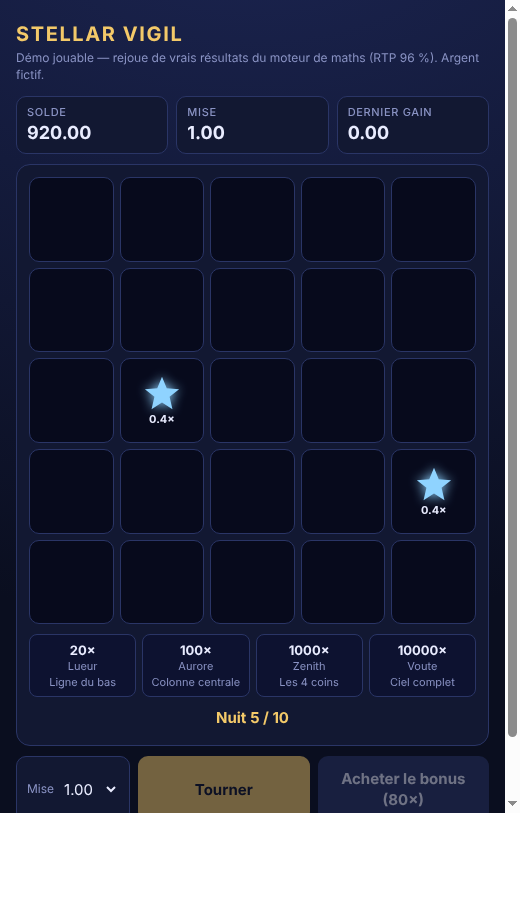
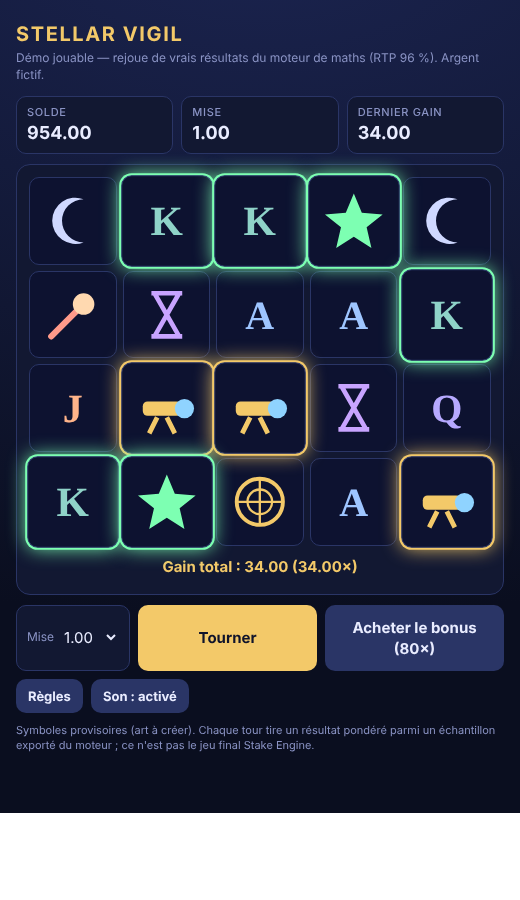
Iteration 2: RTP breakdown tool, accounting test, demo sound and rules, SWOT v4
Claude-Session: https://claude.ai/code/session_01QhCfkmPEuKu1oz7J2mMLDx

diff --git a/demo/index.html b/demo/index.html
@@ -46,6 +46,15 @@
   .pointer{position:absolute;left:50%;top:-10px;transform:translateX(-50%);width:0;height:0;border-left:11px solid transparent;border-right:11px solid transparent;border-top:20px solid var(--gold);filter:drop-shadow(0 0 6px var(--gold));z-index:2}
   .wheeltitle{font-weight:800;color:var(--gold);letter-spacing:.06em;text-transform:uppercase;margin-bottom:14px}
   .wheelmsg{min-height:44px;margin-top:14px;font-weight:700}
+  .rules{position:fixed;inset:0;background:rgba(5,8,25,.92);z-index:20;overflow:auto;padding:16px}
+  .rules .card{max-width:620px;margin:0 auto;background:var(--panel);border:1px solid var(--line);border-radius:14px;padding:16px}
+  .rules h2{margin:0 0 8px;color:var(--gold);font-size:17px;text-transform:uppercase;letter-spacing:.06em}
+  .rules h3{margin:14px 0 4px;font-size:14px}
+  .rules ul{margin:4px 0;padding-left:18px;color:var(--ink)}
+  .rules li{margin:3px 0}
+  .rules .warn{color:var(--dim);font-size:12px;margin-top:12px}
+  .tools{display:flex;gap:8px;margin-top:8px}
+  .tools button{flex:0 0 auto;padding:8px 12px;font-size:13px}
   .hidden{display:none}
 </style>
 </head>
@@ -78,8 +87,30 @@
     <button id="spin">Tourner</button>
     <button id="buy" class="alt">Acheter le bonus (80×)</button>
   </div>
+  <div class="tools"><button class="alt" id="rulesbtn">Règles</button><button class="alt" id="mutebtn">Son : activé</button></div>
   <div class="note">Symboles provisoires (art à créer). Chaque tour tire un résultat pondéré parmi un échantillon exporté du moteur ; ce n'est pas le jeu final Stake Engine.</div>
 </div>
+<div class="rules hidden" id="rules"><div class="card">
+  <h2>Règles — Stellar Vigil</h2>
+  <h3>Jeu de base</h3>
+  <ul><li>Grille 5 × 4, 1 024 façons de gagner, gains de gauche à droite.</li>
+  <li>L'Étoile filante (wild) apparaît sur les colonnes 2 à 4 et remplace tous les symboles sauf la Lunette.</li>
+  <li>Une Étoile à valeur peut tomber sur n'importe quelle colonne et paie sur place de 0,2× à 10× la mise.</li></ul>
+  <h3>Nuit des Constellations</h3>
+  <ul><li>3, 4 ou 5 Lunettes déclenchent 10, 12 ou 15 nuits. Le nombre de nuits est fixe.</li>
+  <li>Chaque nuit, de 0 à 3 étoiles tombent sur un ciel de 5 × 5 ; elles y restent jusqu'à la fin du bonus.</li>
+  <li>Des étoiles voisines forment une constellation : chaque étoile gagne un niveau de valeur par lien, jusqu'à +3. Une étoile qui relie deux constellations ajoute un niveau de plus (conjonction).</li>
+  <li>Compléter une zone paie un multiplicateur fixe, une seule fois par bonus : Horizon (ligne du bas) 20×, Méridien (colonne centrale) 100×, Quadrature (les 4 coins) 1 000×, Firmament (ciel complet) 10 000×. Ces multiplicateurs ne sont pas progressifs.</li></ul>
+  <h3>Roue de sauvegarde</h3>
+  <ul><li>En fin de bonus, si le total est inférieur à ce que vous avez payé pour y entrer (votre mise, ou le prix d'achat de 80×), la roue tourne.</li>
+  <li>3 segments sur 8 relèvent le total exactement jusqu'à ce montant. Les 5 autres n'ajoutent rien : la roue n'est pas un remboursement garanti.</li>
+  <li>Sur un bonus déclenché en jeu normal, la roue tourne très rarement, car le total dépasse presque toujours la mise.</li></ul>
+  <h3>Chiffres</h3>
+  <ul><li>RTP théorique : 96,0 % dans tous les modes. Gain maximum : 10 000× la mise, extrêmement rare (environ 1 fois sur 10 millions en jeu normal).</li>
+  <li>Le bonus se déclenche environ 1 spin sur 150 ; environ 28 % des spins gagnent.</li></ul>
+  <p class="warn">Démo à argent fictif : symboles et sons provisoires. Les résultats rejoués proviennent du moteur de maths mais ne constituent pas le jeu final soumis à Stake Engine.</p>
+  <div class="ctl"><button id="rulesclose">Fermer</button></div>
+</div></div>
 <script src="books.js"></script>
 <script>
 const $=id=>document.getElementById(id), sleep=ms=>new Promise(r=>setTimeout(r,ms));
@@ -96,6 +127,29 @@ const SYM={
 const starSvg=`<svg viewBox="0 0 40 40"><path d="M20 3l5 12 13 1-10 8 3 13-11-7-11 7 3-13-10-8 13-1z" fill="#8fd3ff"/></svg>`;
 const fmt=c=>(c/100).toFixed(2);
 let bal=1000, busy=false;
+// --- Sons synthétisés (aucun fichier audio) ---
+let actx=null, muted=false;
+try{muted=localStorage.getItem('sv_muted')==='1'}catch(e){}
+function audio(){ if(muted) return null; try{ actx=actx||new (window.AudioContext||window.webkitAudioContext)(); if(actx.state==='suspended') actx.resume(); return actx }catch(e){ return null } }
+function tone(freq,dur=.15,type='sine',vol=.08,when=0,slideTo=null){
+  const c=audio(); if(!c) return; const t=c.currentTime+when, o=c.createOscillator(), g=c.createGain();
+  o.type=type; o.frequency.setValueAtTime(freq,t); if(slideTo) o.frequency.exponentialRampToValueAtTime(slideTo,t+dur);
+  g.gain.setValueAtTime(0.0001,t); g.gain.exponentialRampToValueAtTime(vol,t+.01); g.gain.exponentialRampToValueAtTime(0.0001,t+dur);
+  o.connect(g).connect(c.destination); o.start(t); o.stop(t+dur+.02);
+}
+const SFX={
+  reveal:()=>{tone(220,.06,'triangle',.05);tone(330,.06,'triangle',.04,.07)},
+  win:()=>{[523,659,784].forEach((f,i)=>tone(f,.18,'sine',.07,i*.09))},
+  star:(v)=>tone(500+Math.min(900,v*4),.18,'sine',.06),
+  link:()=>tone(300,.35,'sawtooth',.03,0,900),
+  zone:()=>{[392,523,659,784,1046].forEach((f,i)=>tone(f,.3,'triangle',.07,i*.1))},
+  trigger:()=>{[262,330,392,523].forEach((f,i)=>tone(f,.25,'triangle',.07,i*.12))},
+  night:()=>tone(180,.2,'sine',.05,0,120),
+  tick:()=>tone(900,.03,'square',.03),
+  saved:()=>{[523,659,784,1046].forEach((f,i)=>tone(f,.25,'sine',.08,i*.1))},
+  empty:()=>tone(220,.4,'sine',.06,0,150)
+};
+function sfx(name,arg){ try{ SFX[name](arg) }catch(e){} }
 const ZONES=[['Horizon','Ligne du bas',20],['Meridien','Colonne centrale',100],['Quadrature','Les 4 coins',1000],['Firmament','Ciel complet',10000]];
 
 function buildBoard(){const b=$('base');b.innerHTML='';for(let r=0;r<4;r++)for(let c=0;c<5;c++){const d=document.createElement('div');d.className='cell';d.id=`b${c}_${r}`;b.appendChild(d)}}
@@ -128,8 +182,10 @@ async function spinWheel(e){
       `<text x="${lx.toFixed(1)}" y="${ly.toFixed(1)}" text-anchor="middle" dominant-baseline="middle" font-size="${saved?9:8}" font-weight="800" fill="${saved?'#10142b':'#8a93c4'}" transform="rotate(${((i+.5)*360/n).toFixed(1)} ${lx.toFixed(1)} ${ly.toFixed(1)})">${saved?'SAUVÉE':'—'}</text>`}).join('');
   msg.textContent=`Total du bonus sous ${(e.floor/100).toFixed(0)}× : la roue peut sauver la mise`;
   box.classList.remove('hidden'); await sleep(900);
+  let t=0, step=60; while(t<3200){ setTimeout(()=>sfx('tick'),t); t+=step; step*=1.07 }
   svg.getBoundingClientRect(); svg.style.transition=''; svg.style.transform=`rotate(${360*5-(e.segment+.5)*360/n}deg)`;
   await sleep(3500);
+  sfx(e.saved?'saved':'empty');
   msg.textContent=e.saved?`Mise sauvée ! +${(e.topUp/100).toFixed(1)}×  → total ${(e.total/100).toFixed(1)}×`:'Pas de sauvegarde cette fois';
   msg.style.color=e.saved?'var(--gold)':'var(--dim)';
   await sleep(2200); box.classList.add('hidden');
@@ -138,15 +194,15 @@ async function playEvents(book,bet){
   let nights=0, total=0;
   for(const e of book.events){
     switch(e.type){
-    case 'reveal': view(false); show(e.board); banner(''); await sleep(450); break;
-    case 'winInfo': e.wins.forEach(w=>w.positions.forEach(p=>$(`b${p.reel}_${p.row-1}`)?.classList.add('win'))); banner('Gain '+fmt(e.totalWin*bet)+'  ×'+(e.totalWin/100)); await sleep(900); break;
-    case 'freeSpinTrigger': banner('NUIT DES CONSTELLATIONS — '+e.totalFs+' nuits'); document.querySelectorAll('.scat').forEach(x=>x.classList.add('win')); await sleep(1400); buildSky(); view(true); break;
-    case 'nightStart': nights=e.night; banner(`Nuit ${e.night} / ${e.totalNights}`); await sleep(350); break;
-    case 'starsLanded': drawStars(e.stars); await sleep(600); break;
-    case 'constellationsUpdate': drawStars(e.stars); drawLinks(e.constellations); if(e.conjunctions) banner(`Conjonction ×${e.conjunctions} !`); await sleep(650); break;
-    case 'zonesComplete': e.zones.forEach(z=>{$('z'+z.name)?.classList.add('done')}); banner('PALIER '+e.zones.map(z=>z.name+' '+(z.win/100)+'×').join(' + ')); await sleep(1300); break;
+    case 'reveal': sfx('reveal'); view(false); show(e.board); banner(''); await sleep(450); break;
+    case 'winInfo': sfx('win'); e.wins.forEach(w=>w.positions.forEach(p=>$(`b${p.reel}_${p.row-1}`)?.classList.add('win'))); banner('Gain '+fmt(e.totalWin*bet)+'  ×'+(e.totalWin/100)); await sleep(900); break;
+    case 'freeSpinTrigger': sfx('trigger'); banner('NUIT DES CONSTELLATIONS — '+e.totalFs+' nuits'); document.querySelectorAll('.scat').forEach(x=>x.classList.add('win')); await sleep(1400); buildSky(); view(true); break;
+    case 'nightStart': sfx('night'); nights=e.night; banner(`Nuit ${e.night} / ${e.totalNights}`); await sleep(350); break;
+    case 'starsLanded': e.stars.forEach((st,i)=>setTimeout(()=>sfx('star',st.value/100),i*120)); drawStars(e.stars); await sleep(600); break;
+    case 'constellationsUpdate': if(e.constellations.length) sfx('link'); drawStars(e.stars); drawLinks(e.constellations); if(e.conjunctions) banner(`Conjonction ×${e.conjunctions} !`); await sleep(650); break;
+    case 'zonesComplete': sfx('zone'); e.zones.forEach(z=>{$('z'+z.name)?.classList.add('done')}); banner('PALIER '+e.zones.map(z=>z.name+' '+(z.win/100)+'×').join(' + ')); await sleep(1300); break;
     case 'nightPayout': total=e.total; banner(`Nuit ${nights} : +${(e.amount/100).toFixed(1)}×  (total ${(e.total/100).toFixed(1)}×)`); await sleep(500); break;
-    case 'starPrizes': e.stars.forEach(p=>$(`b${p.reel}_${p.row-1}`)?.classList.add('win')); banner('Étoiles : +'+(e.total/100).toFixed(1)+'×'); await sleep(900); break;
+    case 'starPrizes': sfx('win'); e.stars.forEach(p=>$(`b${p.reel}_${p.row-1}`)?.classList.add('win')); banner('Étoiles : +'+(e.total/100).toFixed(1)+'×'); await sleep(900); break;
     case 'saverWheel': await spinWheel(e); break;
     case 'freeSpinEnd': banner('Fin du bonus : '+(e.amount/100).toFixed(1)+'×'); await sleep(1200); break;
     case 'finalWin': break;
@@ -170,6 +226,10 @@ buildBoard(); buildSky();
 // preview board on load
 (function(){const b=BOOKS.base.find(x=>x.events[0].type==='reveal'); show(b.events[0].board)})();
 $('spin').onclick=()=>play('base'); $('buy').onclick=()=>play('bonus');
+$('rulesbtn').onclick=()=>$('rules').classList.remove('hidden'); $('rulesclose').onclick=()=>$('rules').classList.add('hidden');
+function paintMute(){ $('mutebtn').textContent='Son : '+(muted?'coupé':'activé') }
+$('mutebtn').onclick=()=>{ muted=!muted; try{localStorage.setItem('sv_muted',muted?'1':'0')}catch(e){} paintMute(); if(!muted) sfx('win') };
+paintMute();
 // query helpers for automated screenshots
 const q=new URLSearchParams(location.search);
 if(q.get('auto')==='bonus'){setTimeout(()=>play('bonus'),300)}

diff --git a/math/games/stellar_vigil/tools/rtp_breakdown.py b/math/games/stellar_vigil/tools/rtp_breakdown.py
@@ -1,0 +1,54 @@
+"""Split the RTP of the published books by component (weighted by the lookup tables).
+
+Usage (from math/):  env/bin/python games/stellar_vigil/tools/rtp_breakdown.py
+Components: ways wins, base-game star prizes, bonus nights (stars), zone multipliers, wager-saver top-ups.
+"""
+
+import collections
+import csv
+import io
+import json
+import os
+
+import zstandard
+
+PUB = os.path.join(os.path.dirname(os.path.dirname(os.path.abspath(__file__))), "library", "publish_files")
+COST = {"base": 1.0, "bonus": 80.0}
+
+
+def breakdown(mode: str) -> dict:
+    with open(os.path.join(PUB, f"books_{mode}.jsonl.zst"), "rb") as f:
+        lines = io.TextIOWrapper(zstandard.ZstdDecompressor().stream_reader(f)).read().splitlines()
+    with open(os.path.join(PUB, f"lookUpTable_{mode}_0.csv")) as f:
+        weights = [int(r[1]) for r in csv.reader(f)]
+    total_w = sum(weights)
+    acc = collections.defaultdict(float)
+    for line, w in zip(lines, weights):
+        b = json.loads(line)
+        ev = b["events"]
+        zone = sum(z["win"] for e in ev if e["type"] == "zonesComplete" for z in e["zones"])
+        parts = {
+            "ways": sum(e["totalWin"] for e in ev if e["type"] == "winInfo"),
+            "stars_base": sum(e["total"] for e in ev if e["type"] == "starPrizes"),
+            "bonus_nights": sum(e["amount"] for e in ev if e["type"] == "nightPayout") - zone,
+            "zones": zone,
+            "saver_topup": sum(e["topUp"] for e in ev if e["type"] == "saverWheel"),
+            "TOTAL": b["payoutMultiplier"],
+        }
+        for k, v in parts.items():
+            acc[k] += w * v / 100
+        acc["p_bonus"] += w * any(e["type"] == "freeSpinTrigger" for e in ev)
+        acc["p_wheel"] += w * any(e["type"] == "saverWheel" for e in ev)
+        acc["p_win"] += w * (b["payoutMultiplier"] > 0)
+        acc["p_cap"] += w * (b["payoutMultiplier"] >= 1_000_000)
+    return {k: v / total_w for k, v in acc.items()}
+
+
+if __name__ == "__main__":
+    for mode in ("base", "bonus"):
+        r = breakdown(mode)
+        print(f"\n== {mode} (cost {COST[mode]}x): share of the amount staked")
+        for k in ("ways", "stars_base", "bonus_nights", "zones", "saver_topup", "TOTAL"):
+            print(f"  {k:14s} {r[k] / COST[mode] * 100:7.2f} %   ({r[k]:.3f}x)")
+        for k in ("p_bonus", "p_wheel", "p_win", "p_cap"):
+            print(f"  {k:14s} {r[k] * 100:8.4f} %" + (f"   (1 in {1 / r[k]:,.0f})" if r[k] else ""))

diff --git a/math/games/stellar_vigil/tests/test_books.py b/math/games/stellar_vigil/tests/test_books.py
@@ -114,3 +114,17 @@ def test_stats_summary_rtp_is_on_target():
         rtps[mode] = mean / COST[mode]
         assert abs(rtps[mode] - 0.96) < 0.005, (mode, rtps[mode])
     assert abs(rtps["base"] - rtps["bonus"]) < 0.005
+
+
+def test_payout_equals_sum_of_components(mode_data):
+    """ways + base stars + bonus nights (zones included) + saver top-up == payout, until the win cap."""
+    _, books, _ = mode_data
+    for b in books:
+        ev = b["events"]
+        parts = (
+            sum(e["totalWin"] for e in ev if e["type"] == "winInfo")
+            + sum(e["total"] for e in ev if e["type"] == "starPrizes")
+            + sum(e["amount"] for e in ev if e["type"] == "nightPayout")
+            + sum(e["topUp"] for e in ev if e["type"] == "saverWheel")
+        )
+        assert b["payoutMultiplier"] == min(parts, WINCAP_CENTS), b["id"]

diff --git a/docs/SWOT.md b/docs/SWOT.md
@@ -1,5 +1,41 @@
 # SWOT — Stellar Vigil
 
+## v4 — fin de l'itération 2 (2026-10-09, 21:12-21:35 UTC)
+
+**Corrigé et mesuré depuis la v3**
+- **RTP réparti par composante, mesuré** sur 100 000 simulations (outil `tools/rtp_breakdown.py`, tableau dans `DESIGN.md` §10).
+- **Comptabilité des événements garantie** : un test vérifie sur 200 000 books que ways + étoiles + nuits + top-up de la roue = paiement final (le front-end peut s'y fier). 28 tests au total.
+- **Démo** : son synthétisé (aucun fichier audio, bouton couper/activer) et écran de règles honnête (RTP, gain max très rare, roue non garantie). Aucune erreur JavaScript détectée au chargement ; le rendu sonore lui-même n'a pas pu être écouté ici.
+
+### Forces
+- Moteur complet, reproductible et mesuré par composante ; tests verts ; RTP 96,0 % dans les deux modes.
+- Mécanique originale ; bonus déterministe compatible avec les résultats pré-générés de Stake.
+- Démo jouable avec roue, sons et règles.
+
+### Faiblesses (restantes)
+- **Découverte** : la roue de sauvegarde ne tourne quasiment jamais sur un bonus déclenché en jeu de base (1 spin sur 330 000), car son plancher (la mise, 1x) est presque toujours dépassé. Elle n'est réellement visible qu'en achat de bonus (67 % des achats). À trancher par l'utilisateur (voir `OPEN_QUESTIONS.md` n°8).
+- Mode achat plus volatil que le bonus déclenché à moyenne comparable (zones 21,4 % contre 5,4 %).
+- Front-end Svelte/PixiJS non commencé ; art et sons de production absents.
+- Coût de l'achat de bonus (80x) et table des gains toujours provisoires.
+- Queue extrême non validée ; 71,6 % de spins sans gain en jeu de base.
+
+### Opportunités
+- Plateforme en croissance (chiffres rapportés par Engine, non vérifiés) ; aucun clone de Huff N' Puff trouvé dessus.
+- Thème libre de licences ; déclinaisons possibles.
+- La roue peut devenir un vrai argument de rétention si son plancher est rendu pertinent en jeu de base.
+
+### Menaces
+- Brevets : persistance des étoiles et roue « jusqu'au plancher » à faire examiner par un conseil.
+- CGU Stake : licence large pour 36 mois renouvelables ; clauses de résiliation/indemnisation non lues.
+- Maths figées après approbation (atténué : tests + validation à 100 000 + mesure par composante).
+- Règles Stake incomplètes (RTP min/max, fichiers, juridictions).
+- Noms proches : Stellar Jackpots, Moon Princess Stargazing, « Vault ».
+- Saturation du marché ; risque de ressemblance avec Huff N' Puff.
+
+---
+
+# SWOT — Stellar Vigil
+
 ## v3 — fin de l'itération 1 (2026-10-09)
 
 **Corrigé et mesuré depuis la v2**

diff --git a/docs/ITERATIONS.md b/docs/ITERATIONS.md
@@ -14,3 +14,11 @@
 - Démo : roue animée, étoiles à valeur, nouveaux noms ; books ré-exportés depuis la bibliothèque à 100 000.
 - Incident : le worker a redémarré pendant l'itération ; la routine s'est déclenchée deux fois (15:12 et 18:12 UTC), une seule itération a été jouée. Une commande précédente, interrompue, avait déjà appliqué une partie des modifications : doublons nettoyés avant de relancer.
 - Pour l'itération suivante : mesurer la répartition du RTP par composante (ways, étoiles, bonus, roue, zones), puis régler le coût du bonus buy et la table des gains ; audio procédural dans la démo ; texte de règles.
+
+## Itération 2 (2026-10-09, 21:12-21:35 UTC)
+- Mesure : répartition du RTP par composante sur 100 000 simulations (outil versionné `tools/rtp_breakdown.py`).
+  Base : ways 43,3 %, étoiles 3,8 %, nuits 43,5 %, zones 5,4 % ; achat : nuits 71,7 %, zones 21,4 %, roue 1,0 %.
+- Test de comptabilité (ways + étoiles + nuits + top-up = paiement) sur 200 000 books : passe. 28 tests au total.
+- Démo : sons synthétisés avec bouton, écran de règles ; 0 erreur JavaScript détectée (le son n'a pas pu être écouté).
+- Découverte : la roue ne tourne presque jamais sur un bonus déclenché en jeu de base. Aucun changement de maths fait : décision produit demandée (question n°8).
+- Pour l'itération suivante : si la décision n'est pas donnée, préparer les deux variantes de plancher en configuration et mesurer leur coût en RTP sans les activer ; calage du coût de l'achat de bonus.

diff --git a/math/games/stellar_vigil/DESIGN.md b/math/games/stellar_vigil/DESIGN.md
@@ -92,3 +92,16 @@ Tests automatisés : `math/games/stellar_vigil/tests` (26 tests : logique du cie
 - Résultat pré-généré dans le book (événement `saverWheel` : segments, segment, saved, floor, topUp, total) ; aucun choix du joueur.
 - Effet réel : quasi absente en jeu de base (un bonus déclenché rapporte rarement moins de 1x), fréquente en achat de bonus (le plus souvent sous 80x).
 - À formuler clairement dans les règles du jeu : elle ne garantit pas un remboursement, elle l'offre sur 3 segments sur 8.
+
+## 10. Répartition du RTP par composante (100 000 simulations, `tools/rtp_breakdown.py`)
+| Composante | Mode base (part de la mise) | Mode achat (part du prix d'achat) |
+|---|---|---|
+| Gains ways | 43,3 % | 1,8 % |
+| Étoiles à valeur (jeu de base) | 3,8 % | 0,1 % |
+| Nuits du bonus (étoiles et constellations) | 43,5 % | 71,7 % |
+| Multiplicateurs de zone | 5,4 % | 21,4 % |
+| Roue de sauvegarde | 0,0 % | 1,0 % |
+| **Total** | **96,0 %** | **96,0 %** |
+
+Autres mesures : bonus déclenché 1 spin sur 150 ; spins gagnants 28,4 % (1 sur 3,5) ; roue tournée 67,3 % des achats mais seulement 1 spin sur 330 000 en jeu de base ; gain max 1 fois sur 10 millions (base) et 1 sur 125 000 achats.
+Lecture : le bonus porte environ la moitié du RTP en jeu de base ; le mode achat a plus de poids sur les zones (21,4 % contre 5,4 % rapporté au prix) : l'optimiseur y favorise des résultats plus volatils que le bonus déclenché, à moyenne comparable (74,5x contre 73x).

diff --git a/docs/OPEN_QUESTIONS.md b/docs/OPEN_QUESTIONS.md
@@ -8,3 +8,5 @@
 
 6. **Roue de sauvegarde** : à soumettre au conseil en brevets avec le brevet « iterative awards » (award calculé à partir d'un total précédent). Et à décrire sans ambiguïté dans les règles : elle ne garantit pas le remboursement.
 7. **Gain max** : 10 000x existe mais survient environ 1 fois sur 10 millions ; décider si le supprimer de la communication ou le rendre plus accessible (changement de maths).
+
+8. **Roue de sauvegarde en jeu de base** : elle ne tourne presque jamais sur un bonus déclenché (plancher = 1x). Options : (a) laisser tel quel, la roue est une fonction du mode achat ; (b) plancher fixe sur les bonus déclenchés (par ex. 25x), plus visible mais ce n'est plus une « mise sauvée » au sens strict (à renommer, ex. « minimum de bonus ») ; (c) plancher proportionnel au nombre de Lunettes. Ça modifie les maths et le coût en RTP ; à décider avant la soumission.
